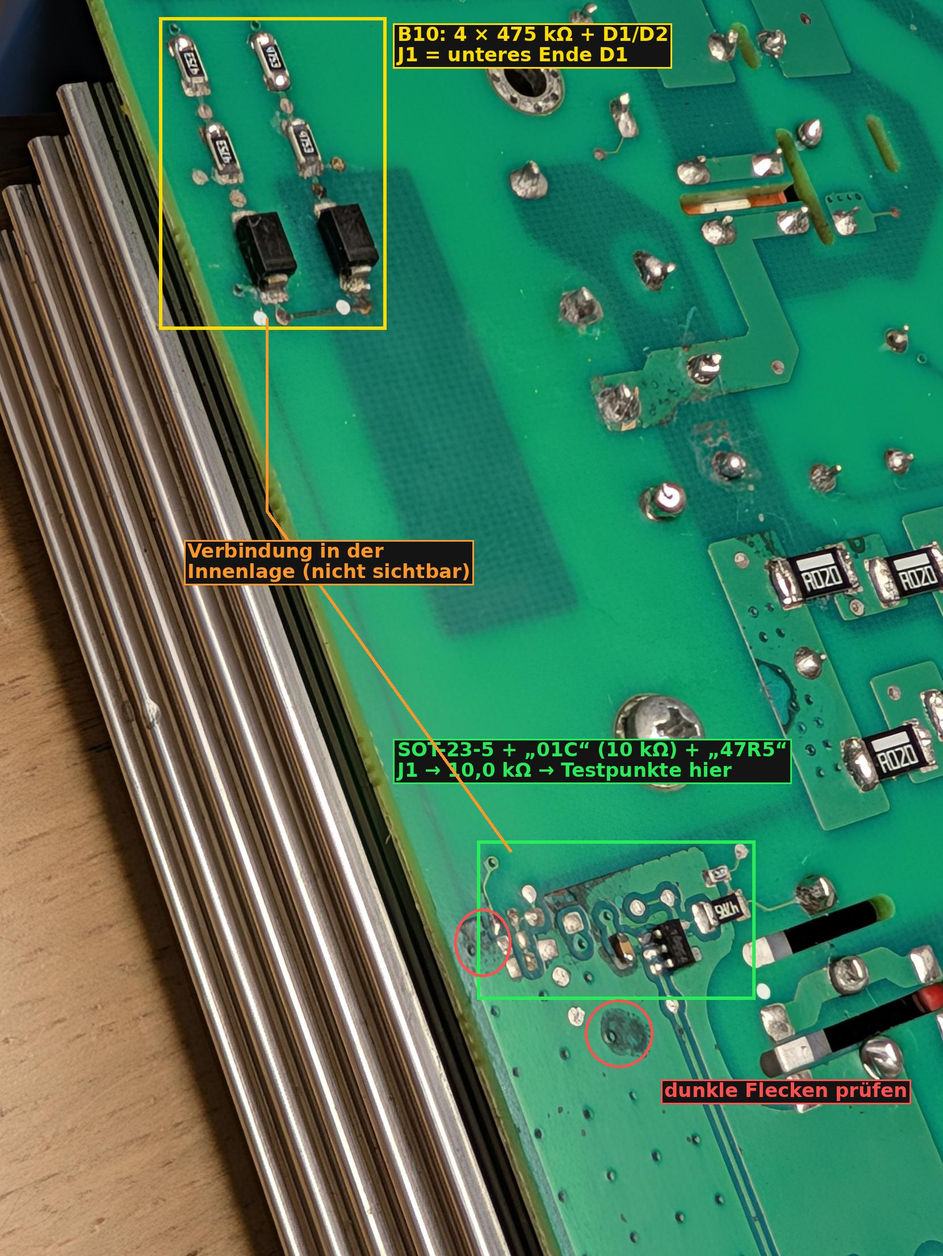
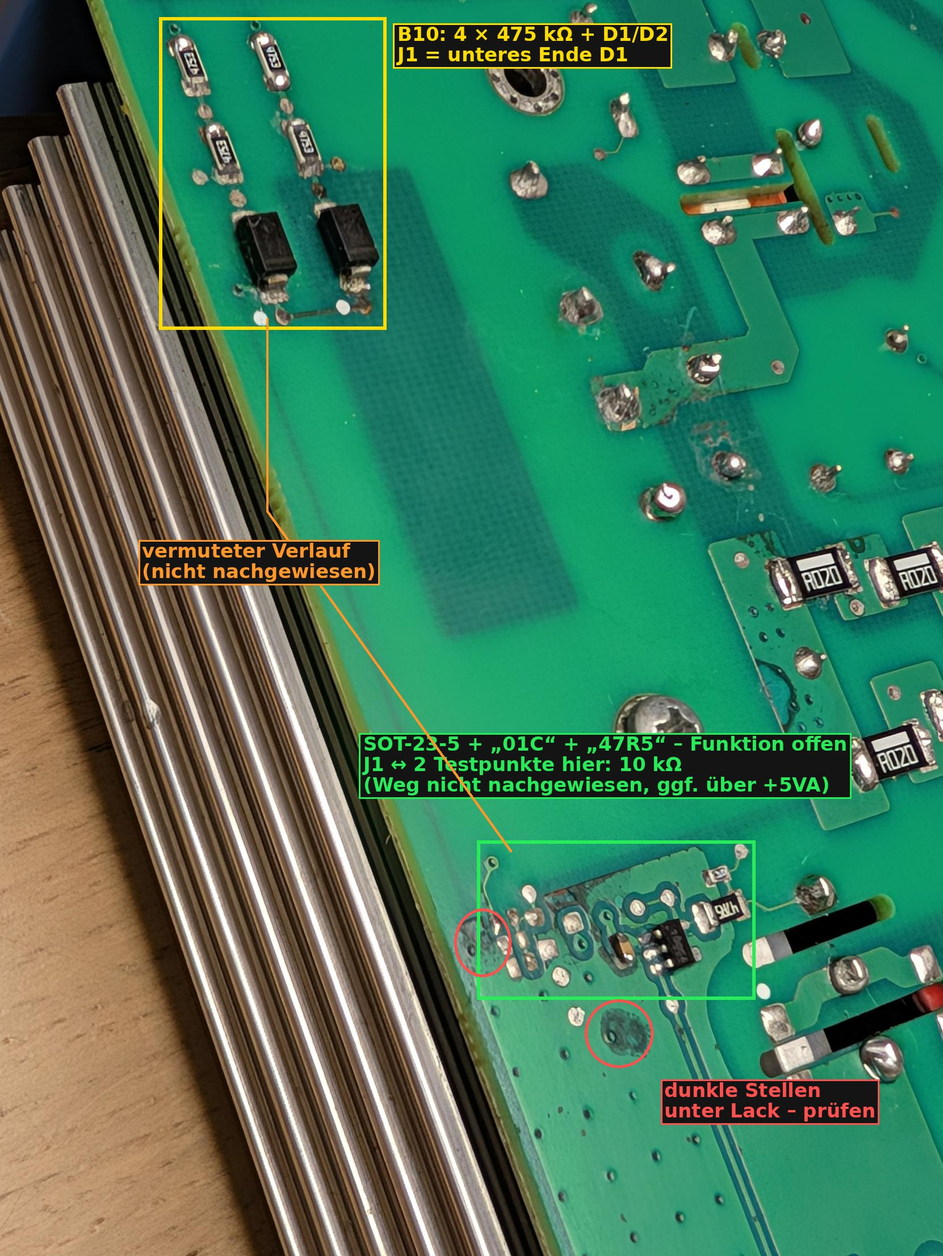
Korrektur B10/SOT-23-5 nach Review: Weg und Funktion offen, Bild angepasst
Claude-Session: https://claude.ai/code/session_01PCWMsMLh1QUFQHXCMiZTdR

Changed region(s): [[0.3685, 0.5615, 0.9211, 0.6551], [0.1228, 0.4055, 0.522, 0.4679], [0.6755, 0.8422, 0.9825, 0.9046]]

diff --git a/docs/LAUF_2026-11-14.md b/docs/LAUF_2026-11-14.md
@@ -124,3 +124,12 @@ Nächste Messungen (geklemmt, gegen 0VA, Standby → Start): L4981 Pin 12 (SS), 
 - Prüfen: (1) Durchgang jeder Bahn, die durch den Fleck läuft, Ende zu Ende ≈ 0 Ω; (2) Isolation zwischen benachbarten Bahnen/Pads im Fleck (erwartet MΩ/OL); (3) Vias im Fleck einzeln; (4) im Betrieb SOT-23-5 Eingang/Ausgang (DC + Hz, erwartet 100-Hz-Impulse).
 - **18:53 Hinweis Netzversorgung [O, Nutzer]:** Gehört, dass das Laufband empfindlich auf weitere Geräte an derselben Mehrfachsteckdose reagiert. Aktuell direkt an der Wandsteckdose, am selben Sicherungskreis hängt aber mindestens der Schreibtisch (PC usw.). Passt zur Hypothese, dass die **Netzerfassung (B10 → SOT-23-5)** ein schwaches, gestörtes oder durch Kriechströme verfälschtes Netzsignal liefert und der MCU deshalb die Startsequenz nicht beginnt [H].
 - Test: (a) Kaltstart mit abgeschalteten Verbrauchern am selben Kreis bzw. an einer Steckdose eines anderen Sicherungskreises; (b) im Betrieb J1 (DC + Hz) und SOT-23-5 Ein-/Ausgang messen; (c) Netzspannung an der Steckdose (AC) notieren.
+
+### Korrektur 19:05 (Review) zu B10/SOT-23-5 [I]
+- **Weg B10 → SOT-23-5 nicht nachgewiesen.** J1 hatte am 08.11. bereits ≈ 9–10 kΩ zu +5VA; die 10 kΩ zu den beiden Testpunkten können über gemeinsame Versorgungs-/Massepfade entstehen. „01C“ ist nicht als Serienwiderstand im B10-Weg belegt (Nutzer: J1 ↔ 01C kein Leitungswiderstand). „Innenlage“ ist Vermutung.
+- **SOT-23-5-Funktion offen:** „47R5“ führt sichtbar zu einem großen Durchsteckanschluss → Gate-Treiberstufe ist ernsthafte Alternative zum Komparator.
+- **Dunkle Stellen unter dem Lack:** prüfenswert, aber kein Nachweis elektrischer Schädigung. Die Erwartung „MΩ/OL zwischen benachbarten Bahnen“ gilt bei bestückter Platine nicht allgemein (reguläre Schaltungspfade). Nicht freikratzen, nichts tauschen.
+- **„100-Hz-Impulse erwartet“ zurückgenommen:** Signalform an J hängt von der unbekannten Beschaltung ab (pulsierend, geglättet oder Schaltsignal); fehlende Hz-Anzeige wäre kein Defektbeleg.
+- Der Hinweis auf Netzempfindlichkeit (Hörensagen) erhöht den B10-Verdacht nicht wesentlich; Vergleich an anderem Stromkreis bleibt als einfacher Test sinnvoll.
+
+**Nächste Zuordnungsprüfung (stromlos, entladen):** (1) J1 ↔ beide Endkappen des 01C am SOT-23-5 (Werte notieren); (2) beide Testpunkte am SOT-23-5 ↔ 0VA und ↔ +5VA (direkte Verbindung?); (3) großen Durchsteckanschluss hinter „47R5“ dem Bauteil auf der Vorderseite zuordnen (Gate von Q1/anderem Leistungsbauteil?).
